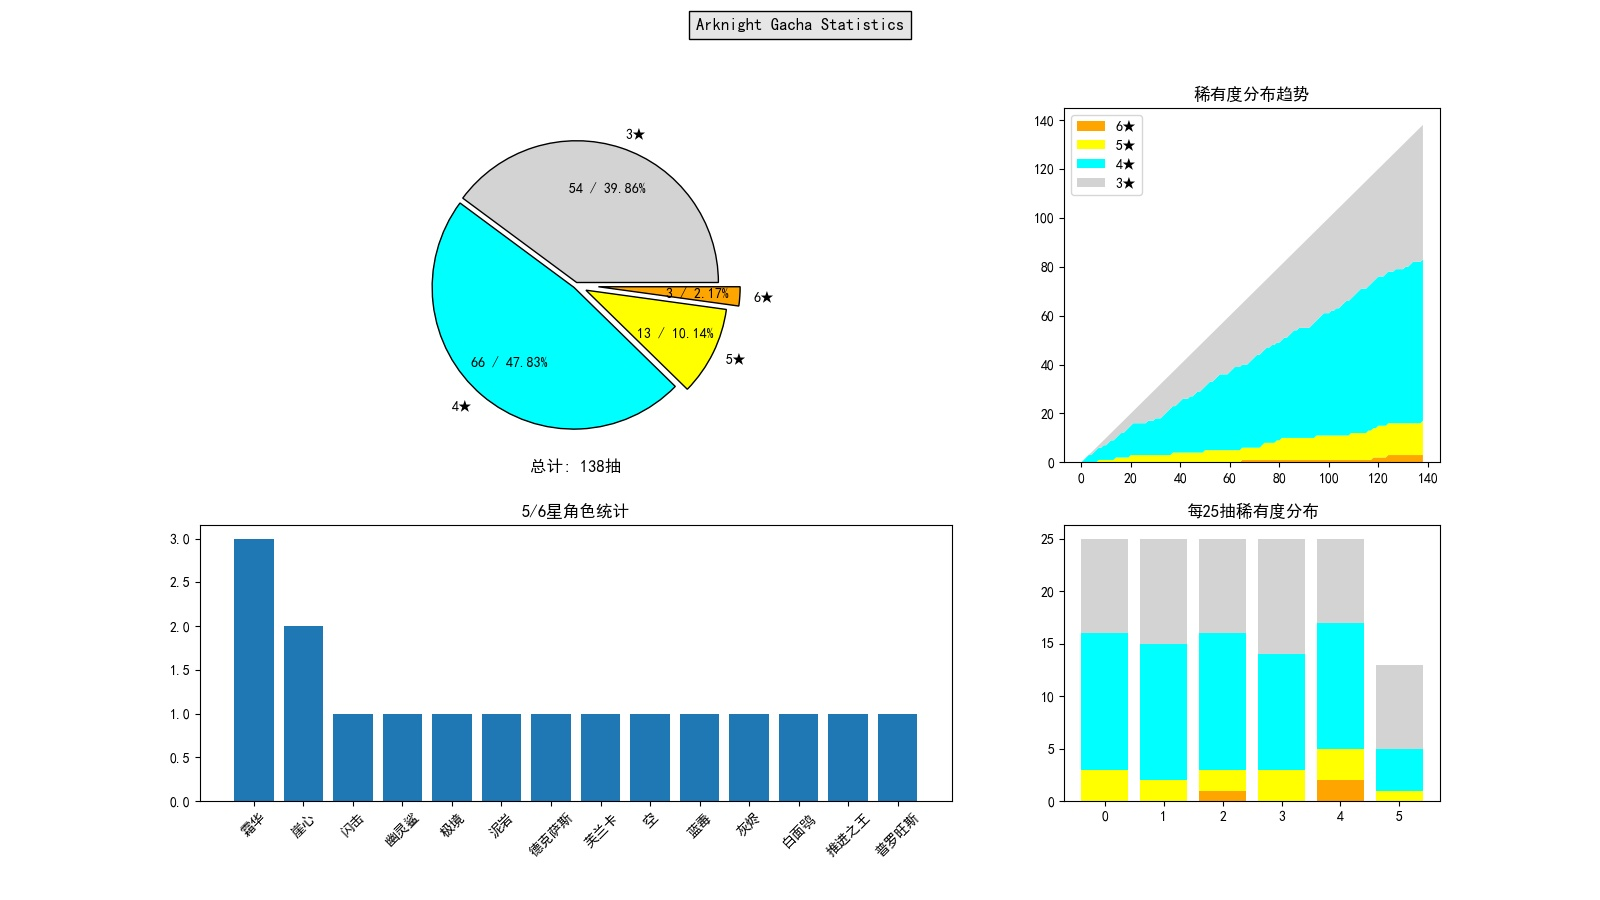
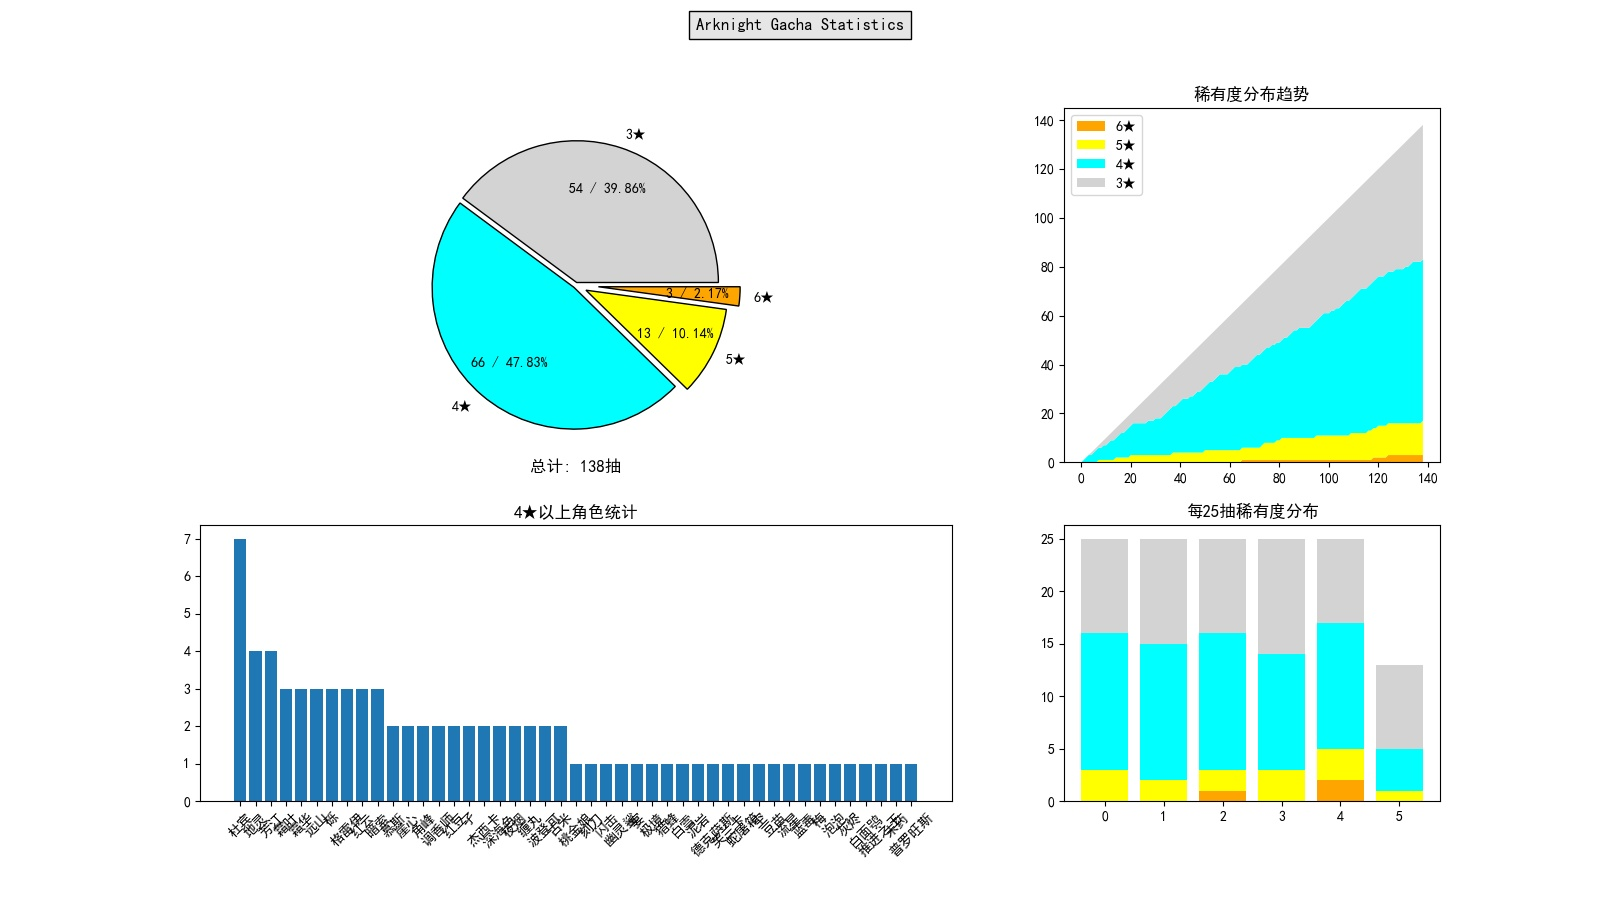
0331
修复第80行xpath错误导致获取数据中“下一页”识别错误的bug（感谢我的室友xd）
增加自选最低星级的功能

Changed region(s): [[0.125, 0.5911, 0.5938, 0.9644], [0.3125, 0.56, 0.4062, 0.5911]]

diff --git a/ArkGachaStatistics.py b/ArkGachaStatistics.py
@@ -8,12 +8,12 @@ import matplotlib.pyplot as plt
 import pylab
 rec = []
 olddate = 0
-logfile = 'log'
 
 parser = argparse.ArgumentParser(description='Arknights Gacha Statistics - 一个明日方舟抽卡统计工具', add_help= True)
 parser.add_argument('-d', '--debug', action='store_true', help='输出调试信息.')
 parser.add_argument('-e', '--export', action='store_true', help='直接从已有数据导出图片.')
-parser.add_argument('-f', '--file', metavar='filename', help='设置记录的文件名(默认为log.json).')
+parser.add_argument('-f', '--file', metavar='filename', default='log', help='设置记录的文件名(默认为log.json).')
+parser.add_argument('-m', '--minimum-rarity', type=int, choices=range(3, 7), default=4, help='设置单角色统计最低星级(3~6的整数，默认为4).')
 parser.add_argument('-r', '--reset', action='store_true', help='清除历史记录.')
 parser.add_argument('-s', '--skip-fetch', action='store_true', help='跳过从官网更新抽卡数据.')
 parser.add_argument('--skip-draw', action='store_true', help='跳过画图.')
@@ -77,7 +77,7 @@ def fetch():
                     'rarity': rarity
                 })
             print()
-        next_page = browser.find_element_by_xpath('//*[@id="app"]/div/div/div[3]/div[2]/div[2]/div[2]/ul/li[7]/a')
+        next_page = browser.find_element_by_xpath('//*[@id="app"]/div/div/div[3]/div[2]/div[2]/div[2]/ul/li[last()]/a')
         if (next_page.get_attribute('aria-disabled') == 'true' or not loop):
             break
         i += 1
@@ -99,7 +99,7 @@ def draw():
     total = len(rec)
     count = [0, 0, 0, 0] # 3~6星计数
     trend = [[0], [0], [0], [0]] # 3~6星趋势
-    chars = {} # 5/6星角色计数
+    chars = {} # 角色计数
     trend25 = [] #25抽分布
     tmp = [0, 0, 0, 0]
     for i in rec:
@@ -107,7 +107,7 @@ def draw():
         count[rarity-3] += 1
         for j in range(4):
             trend[j].append(trend[j][-1]+1 if rarity-3 ==  j else trend[j][-1])
-        if (rarity >= 5):
+        if (rarity >= args.minimum_rarity):
             chars.setdefault(name, 0)
             chars[name] += 1
         tmp[rarity-3] += 1
@@ -126,7 +126,7 @@ def draw():
     colors = ['lightgrey', 'cyan', 'yellow', 'orange']
     labels = ['3★', '4★', '5★', '6★']
     plt.suptitle('Arknight Gacha Statistics', bbox={'facecolor':'0.9', 'pad':5})
-    # 稀有度分布饼图
+    # 稀有度分布（饼图）
     axes[0, 0].pie(
         count,
         colors = colors,
@@ -137,8 +137,8 @@ def draw():
         wedgeprops = dict(edgecolor='black', linewidth=1)
     )
     axes[0, 0].set_title('总计: %d抽' % total, y=-0.05)
-    # 稀有度分布趋势堆积式折线图
-    axes[0, 1].set_title('稀有度分布趋势')
+    # 稀有度累计趋势（堆积式折线图）
+    axes[0, 1].set_title('稀有度累计趋势')
     axes[0, 1].stackplot(
         range(total+1), # x轴
         trend[3], trend[2], trend[1], trend[0], # 折线数据
@@ -146,22 +146,25 @@ def draw():
         colors = reversed(colors)
     )
     axes[0, 1].legend(loc=2)
-    # 高星角色统计
-    axes[1, 0].set_title('5/6星角色统计')
+    # 角色统计（柱状图）
+    axes[1, 0].set_title('%d★以上角色统计' % args.minimum_rarity)
     axes[1, 0].bar(
         list(map(lambda l: l[0], [l for l in chars])),
         list(map(lambda l: l[1], [l for l in chars]))
     )
+    debug(len(chars))
     for tick in axes[1, 0].get_xticklabels(): # 旋转标签
         tick.set_rotation(45)
-    # 未完成: 每25(暂定)抽的出率统计（柱状图）
+        tick.set_fontsize(max(20-0.26*len(chars), 6)) # 字体大小：对测试数据做线性拟合，最小为6
+    # 每25(暂定)抽稀有度分布（堆积式柱状图）
     axes[1, 1].set_title('每25抽稀有度分布')
     for i in range(4):
         axes[1, 1].bar(
             range(len(trend25)),
             list(map(lambda l: l[i], [l for l in trend25])),
             bottom = list(map(lambda l: sum(l[i+1:]), [l for l in trend25])),
-            color = colors[i]
+            color = colors[i],
+            tick_label = list(map(lambda x: str(x*25), range(len(trend25))))
         )
     # 保存&显示
     filename = '%s %s' % (logfile, rec[-1]['date'].replace(':', '-'))
@@ -179,7 +182,7 @@ def draw():
     return None
 
 if (__name__ == '__main__'):
-    logfile = args.file.replace('.json', '') if args.file else 'log'
+    logfile = args.file.replace('.json', '')
     try:
         with open('logs/%s.json' % logfile, 'r', encoding='UTF-8') as f:
             rec = json.load(f)

diff --git a/README.md b/README.md
@@ -31,6 +31,8 @@ usage: ArkGachaStatistics.py [-h] [-r] [-s] [--skip-draw] [-e]
   -e, --export          直接从已有数据导出图片.
   -f filename, --file filename
                         设置记录的文件名(默认为log.json).
+  -m {3,4,5,6}, --minimum-rarity {3,4,5,6}
+                        设置单角色统计最低星级(3~6的整数，默认为4).
   -r, --reset           清除历史记录.
   -s, --skip-fetch      跳过从官网更新抽卡数据.
   --skip-draw           跳过画图.
@@ -39,6 +41,7 @@ usage: ArkGachaStatistics.py [-h] [-r] [-s] [--skip-draw] [-e]
 5. **注意**：本程序依赖[官网数据](https://ak.hypergryph.com/user/inquiryGacha)，而它只保存**30日，100条以内**数据，且查询结果可能与游戏内实际操作存在延迟。若您希望获得较为完整的数据，请确保在每个30天，100抽内至少运行一次（程序会自动抛弃重复的数据）
 
 ## Change log
+- 2021-03-31 修复获取“下一页”时的bug，-m指定左下角柱状图最低星级
 - 2021-03-31 高星干员分布和每25抽稀有度分布柱状图，中文显示，-f指定log文件名（如果需要获取多个账户的数据请使用此功能）
 - 2021-03-29 绘制稀有度分布堆叠折线图，argparse参数解析
 - 2021-03-28 创建项目，获取数据以及绘制稀有度分布饼图
